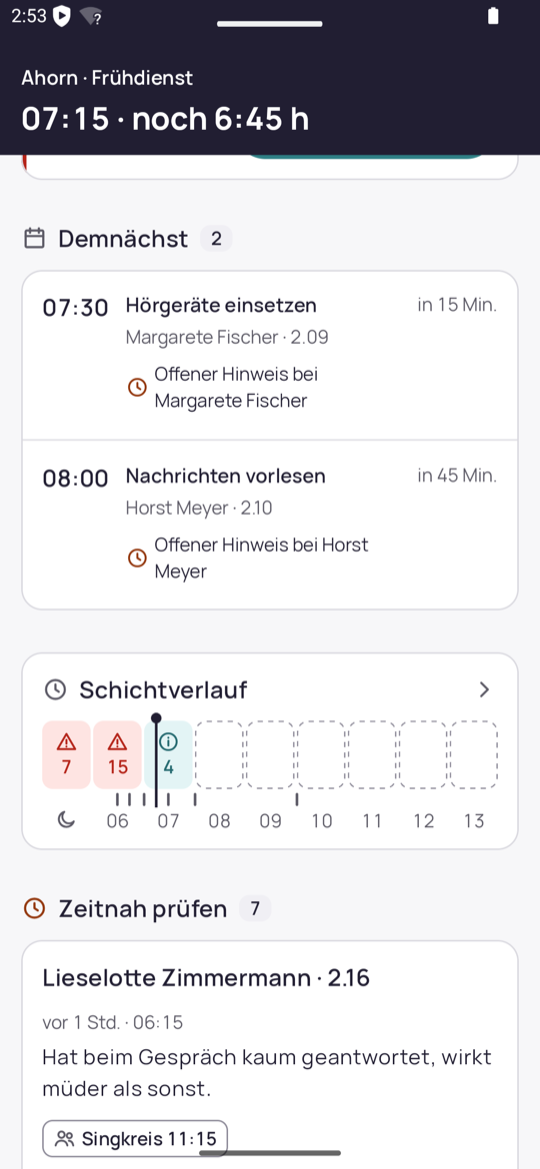
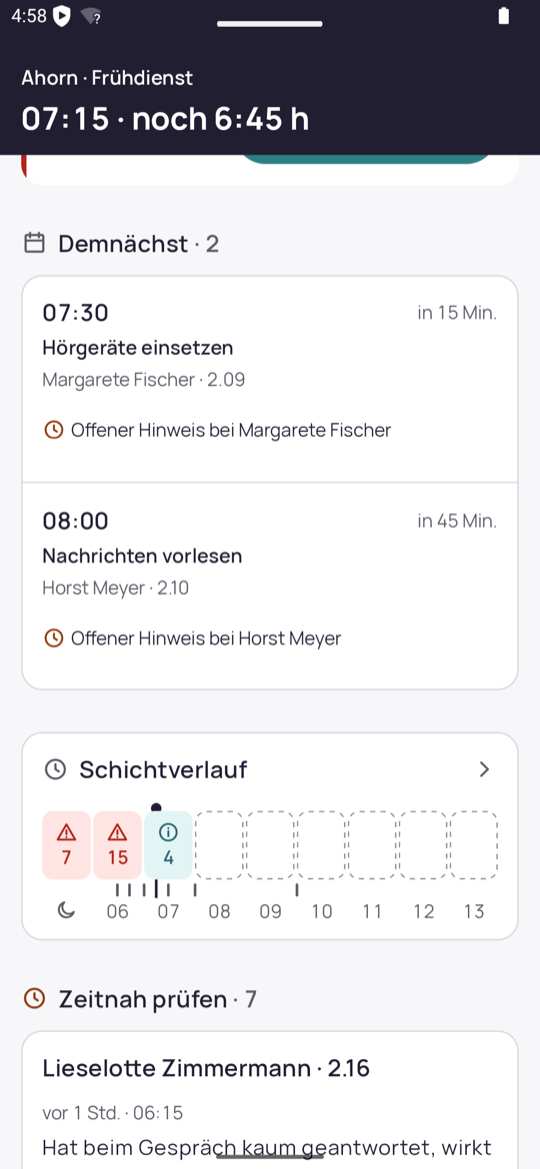
docs: refresh screenshots and record ux check in ai workflow

diff --git a/README.md b/README.md
@@ -32,7 +32,7 @@ drei Prinzipien: Personen statt Events, Dringlichkeit ≠ Zuständigkeit, Hinwei
 |---|---|---|
 | <img src="docs/assets/screenshots/dashboard.png" width="240" alt="Dashboard mit Jetzt handeln"> | <img src="docs/assets/screenshots/schichtverlauf-karte.png" width="240" alt="Demnächst und Schichtverlauf"> | <img src="docs/assets/screenshots/detail-uebernommen.png" width="240" alt="Personendetail mit Snackbar Rückgängig"> |
 | **Abschließen mit Pflichtnotiz** | **Schichtverlauf** | **Dark Mode** |
-| <img src="docs/assets/screenshots/abschliessen.png" width="240" alt="Abschließen mit Textbausteinen und Fehlermeldung"> | <img src="docs/assets/screenshots/schichtverlauf.png" width="240" alt="Schichtverlauf mit Legende"> | <img src="docs/assets/screenshots/dashboard-dark.png" width="240" alt="Dashboard im Dark Mode"> |
+| <img src="docs/assets/screenshots/abschliessen.png" width="240" alt="Abschließen mit Textbausteinen und Pflichthinweis"> | <img src="docs/assets/screenshots/schichtverlauf.png" width="240" alt="Schichtverlauf mit Legende"> | <img src="docs/assets/screenshots/dashboard-dark.png" width="240" alt="Dashboard im Dark Mode"> |
 
 <img src="docs/assets/screenshots/tablet.png" width="720" alt="Tablet: Dashboard links, Detail rechts">
 
@@ -54,7 +54,7 @@ drei Prinzipien: Personen statt Events, Dringlichkeit ≠ Zuständigkeit, Hinwei
   Handlungsbedarf; Pflichtnotiz bei dringenden und Gesundheitshinweisen), *Weiterleiten* an Küche,
   Haustechnik, Sozialdienst oder Verwaltung, *Zur Kenntnis* für Info-Hinweise, *Rückgängig* über die Snackbar.
   Die Regeln stehen in [Planung §5](docs/00-planung.md).
-- **Tablet:** ab 840 dp Breite List-Detail (Dashboard links, Detail rechts), darunter eine Spalte.
+- **Tablet:** ab 840 dp Breite List-Detail (Dashboard links auf getönter Fläche, Detail rechts, beim Start die oberste Person geöffnet), darunter eine Spalte.
 - **Dark Mode** über die Systemeinstellung; Layouts wachsen mit großer Schrift (Previews mit 200 %).
 - **Nicht umgesetzt:** Kennzahlen-Zeile (entfällt, bis es Filter gibt), zweiter Flow, LLM-Call,
   Backend. Siehe [Roadmap](docs/01-entscheidungen.md#roadmap).
@@ -134,7 +134,6 @@ Begründungen und Datenmodell: [docs/01-entscheidungen.md](docs/01-entscheidunge
 - Alle Daten sind fiktiv und stammen aus dem Seed.
 - Keine Anmeldung: Der Verlauf nennt die Schicht, keine Namen.
 - Keine Synchronisation zwischen Geräten; Weiterleiten wird nur gespeichert und angezeigt.
-- Tablet: oben zwischen Liste und Detail bleibt eine optische Lücke.
 - Ein CI-Workflow (`.github/workflows/ci.yml`) ist vorhanden. Seine Läufe waren zeitweise durch das
   GitHub-Actions-Budget blockiert (Abrechnung, nicht der Code).
 <!-- GRENZEN -->

diff --git a/docs/02-ki-arbeitsweise.md b/docs/02-ki-arbeitsweise.md
@@ -76,6 +76,8 @@ beim Blick der Hauptsitzung auf das laufende Gerät gefunden.
 | Flow-Logik | Regeln standen nur im Code | Reviewer | In die Planung übernommen |
 | Flow-UI | „Rückgängig“ in der Snackbar wirkte im Emulator nicht, obwohl die Repository-Logik getestet war | Emulator | Unter Robolectric nicht nachstellbar, die genaue Ursache ist daher nicht belegt. Anfällig war, dass Undo nur lief, solange eine Coroutine auf das Ergebnis der Snackbar wartete. Ersetzt durch eine Snackbar aus dem ViewModel-Zustand, Undo direkt im Klick, Rückmeldung bei Fehlschlag; auf dem Gerät für Übernehmen und Abschließen bestätigt, im E2E-Test abgedeckt |
 | Flow-UI | Im Test-Quellbaum lagen Kopien von Produktionsdateien (teils veralteter Stand) aus einer Worktree-Prüfung des Implementers | Reviewer (prüft den echten Arbeitsbaum, nicht den Bericht) | Kopien entfernt, Herkunft per Byte-Vergleich belegt |
+| Abschluss | UX-Check (Skill `pflege-ux-check`) mit Emulator-Screenshots auf Phone, Tablet, Dark Mode und 200 % Schrift: 12 Befunde, u. a. bedienbare Ränder nur 1,4 : 1, „Demnächst“ bricht bei großer Schrift mitten im Wort, roter Streifen von der Kartenrundung abgeschnitten, sieben gefüllte Buttons konkurrieren mit „Jetzt handeln“, Sheet öffnet sofort rot | Agent mit dem Skill | Alle behoben; Ränder in `outline`, Button-Hierarchie, neutraler Pflichthinweis |
+| Abschluss | Liste und Detail auf dem Tablet nicht unterscheidbar, Lücke und Stufe zwischen den Kopfbereichen, beim Start niemand ausgewählt | Nutzer | Getönte Liste mit Trennlinie, bündige Köpfe mit Namen rechts, oberste Person automatisch geöffnet |
 | Prozess | CI blockiert durch das GitHub-Actions-Budget | Nutzer (Actions-Tab), Hauptsitzung (Diagnose) | Abrechnung, nicht der Workflow; geprüft wird lokal mit dem Verifier |
 | Prozess | Sitzungslimits unterbrachen Agenten | Hauptsitzung | Mit Kontext fortgesetzt |
 | Prozess | Fokus auf den Abschluss | Nutzer | Bewusste Entscheidung: außer dem E2E-Test keine weiteren automatisierten Tests |
